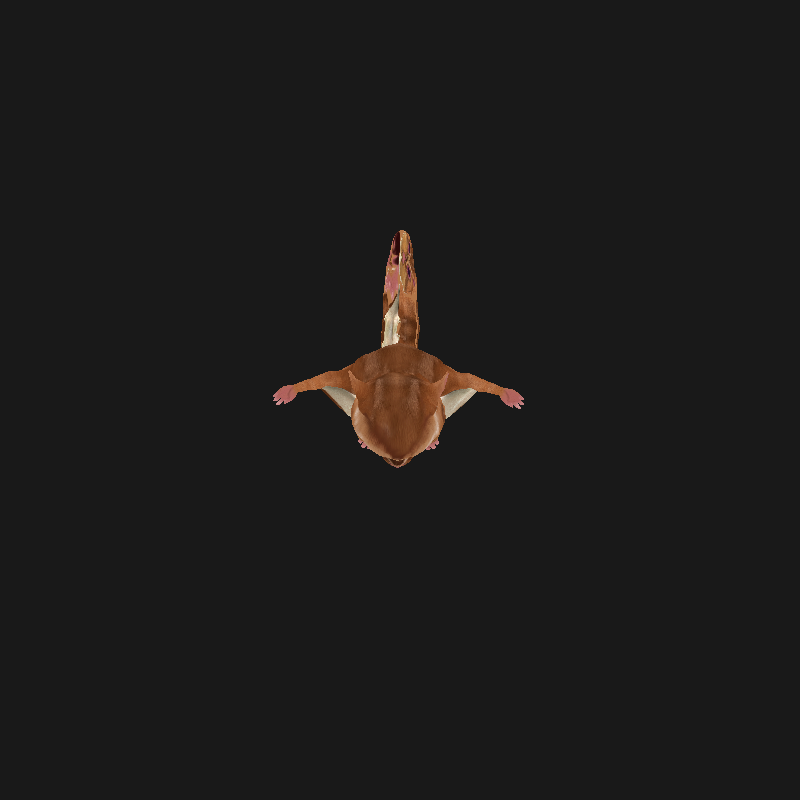
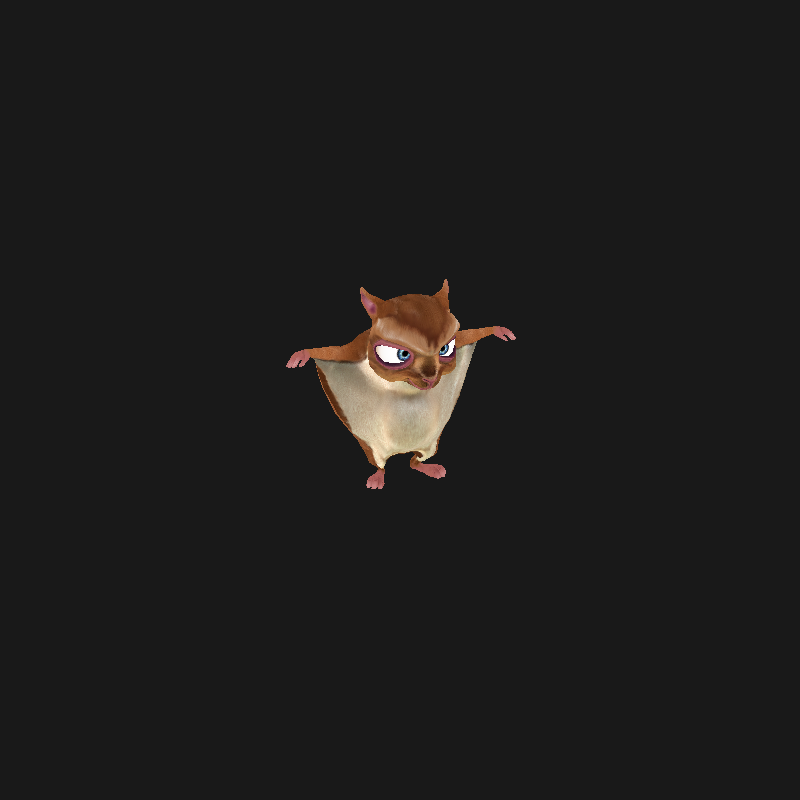
normal mapping OK

Changed region(s): [[0.3438, 0.2812, 0.6562, 0.625]]

diff --git a/TP5/tp_normalmapping_parallax/main.cpp b/TP5/tp_normalmapping_parallax/main.cpp
@@ -35,7 +35,23 @@ void init()
   n_elements = m.size_element();
   VAO = m.load_to_gpu();  CHECK_GL_ERROR();
 
-  glhelper::load_texture("./data/Rocks002_2K/Rocks002_2K_Color.png");
+  glUseProgram(program_id);
+
+  glActiveTexture(GL_TEXTURE0);
+  GLuint tex0 = glhelper::load_texture("./data/Rocks002_2K/Rocks002_2K_Color.png");
+  GLuint location = glGetUniformLocation(program_id, "textureSampler");
+  glUniform1i(location, 0);
+
+  glActiveTexture(GL_TEXTURE0 + 1);
+  GLuint tex1 = glhelper::load_texture("./data/Rocks002_2K/Rocks002_2K_Displacement.png");
+  GLuint location1 = glGetUniformLocation(program_id, "textureSampler1");
+  glUniform1i(location1, 1);
+
+  glActiveTexture(GL_TEXTURE0 + 2);
+  GLuint tex2 = glhelper::load_texture("./data/Rocks002_2K/Rocks002_2K_Normal.png");
+  GLuint location2 = glGetUniformLocation(program_id, "textureNormals");
+  glUniform1i(location2, 2);
+
 }
 
 void set_uniform_mvp(GLuint program)

diff --git a/TP4/projet_etudiant/tp_gpu_cs/camera.cpp b/TP4/projet_etudiant/tp_gpu_cs/camera.cpp
@@ -1,7 +1,7 @@
 #include "camera.h"
 
 Camera::Camera()
-  : pos(3.,-1.5,3.), 
+  :pos(3.,-1.5,3.), 
   target(0.,0.,0.), 
   up(0,1,0),
   distance(glm::distance(pos, target)),
